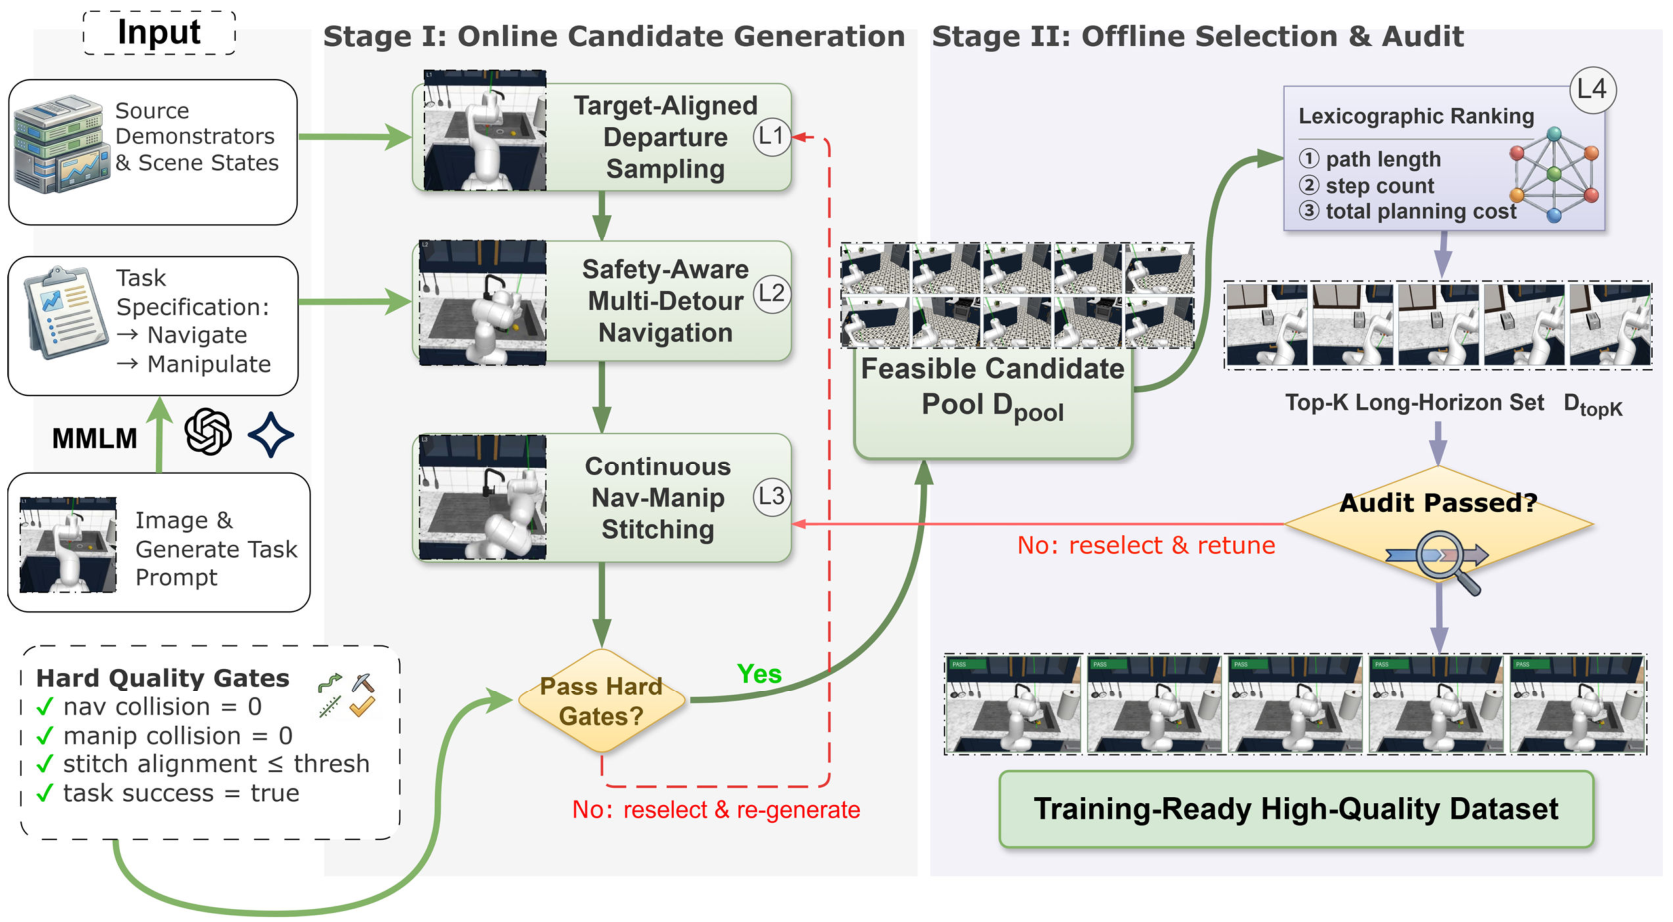
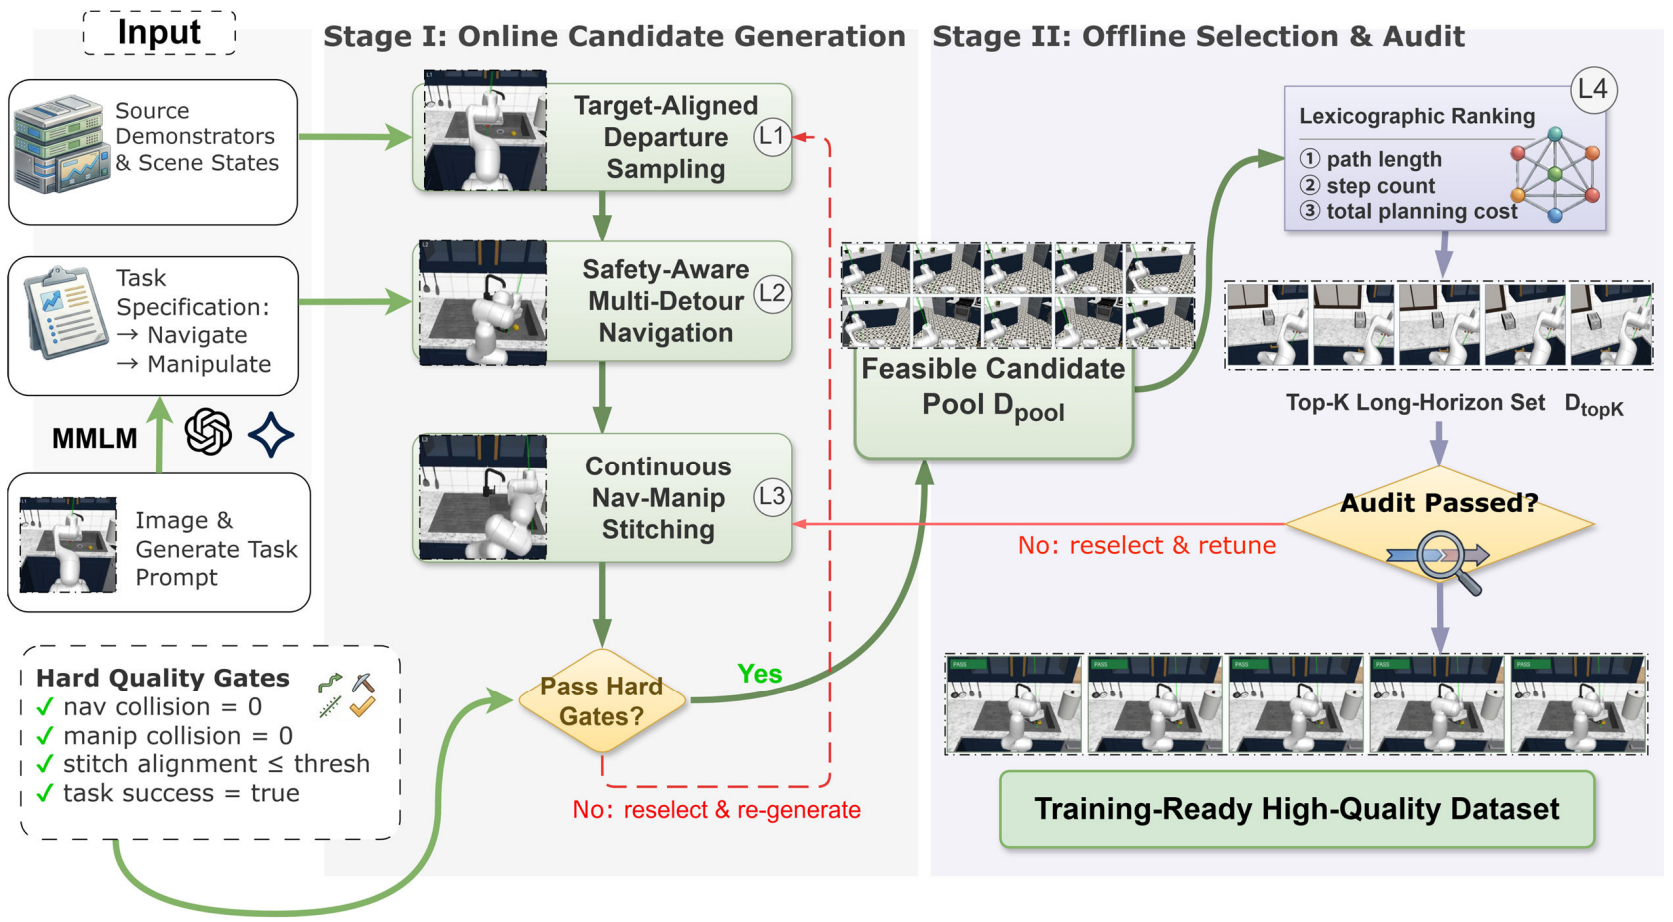
Fix figure rendering artifacts by regenerating PNGs with pypdfium2

diff --git a/scripts/pdf_to_png.py b/scripts/pdf_to_png.py
@@ -1,0 +1,45 @@
+#!/usr/bin/env python3
+"""Render PDF figures to PNG for the project page (use pypdfium2, not PyMuPDF)."""
+
+from __future__ import annotations
+
+import argparse
+from pathlib import Path
+
+import pypdfium2 as pdfium
+
+DEFAULTS = [
+    ("framework.pdf", "framework.png", 3),
+    ("gen_pipeline.pdf", "gen_pipeline.png", 2),
+    ("data_statics.pdf", "data_statics.png", 3),
+]
+
+
+def convert(pdf_path: Path, png_path: Path, scale: int) -> None:
+    doc = pdfium.PdfDocument(str(pdf_path))
+    try:
+        page = doc[0]
+        image = page.render(scale=scale, rotation=0).to_pil()
+        image.save(png_path, format="PNG", optimize=True)
+    finally:
+        doc.close()
+
+
+def main() -> int:
+    parser = argparse.ArgumentParser()
+    parser.add_argument(
+        "--images-dir",
+        type=Path,
+        default=Path(__file__).resolve().parent.parent / "static" / "images",
+    )
+    args = parser.parse_args()
+    for pdf_name, png_name, scale in DEFAULTS:
+        pdf = args.images_dir / pdf_name
+        png = args.images_dir / png_name
+        convert(pdf, png, scale)
+        print(f"{png_name} <- {pdf_name}")
+    return 0
+
+
+if __name__ == "__main__":
+    raise SystemExit(main())
